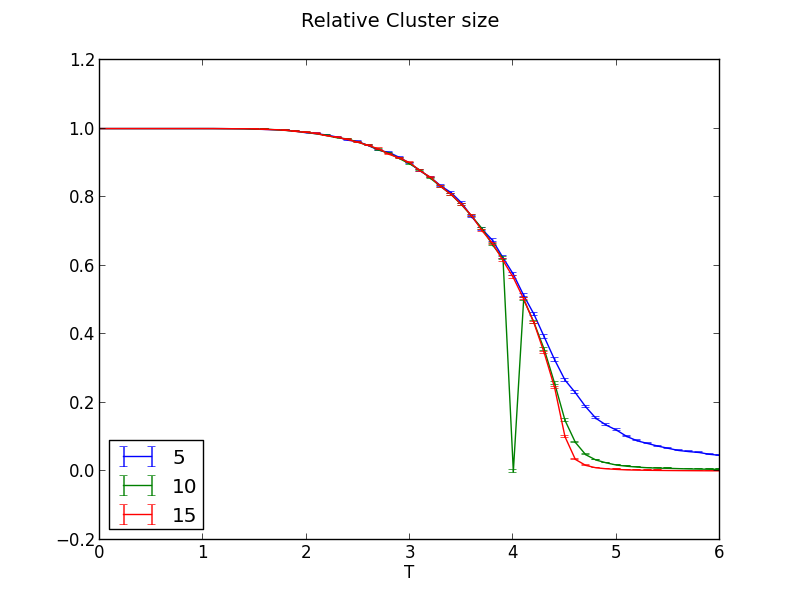
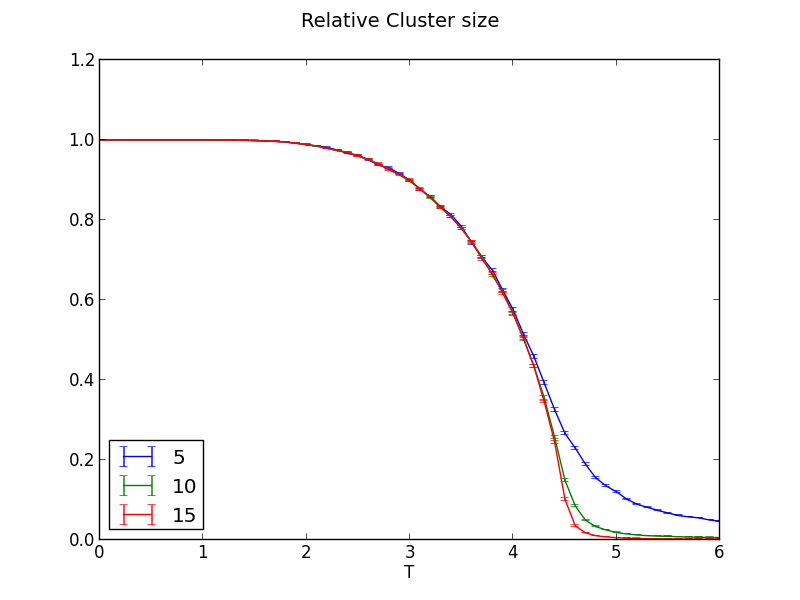
bugfix: relative cluster size

diff --git a/results/measurements/plot.py b/results/measurements/plot.py
@@ -139,7 +139,7 @@ def plotClusterSizeRelative():
     pltdataSingle.sort(key=lambda x: (x[0], x[1]))
 
     for systemSize in sorted(list(set([a for (a,x,y,z) in pltdataSingle]))):
-        pl.errorbar([x for (a,x,y,z) in pltdataSingle if a==systemSize],[y/(a**3) for (a,x,y,z) in pltdataSingle if a==systemSize],[z/(a**3) for (a,x,y,z) in pltdataSingle if a==systemSize], label=systemSize)
+        pl.errorbar([x for (a,x,y,z) in pltdataSingle if a==systemSize],[float(y)/(a**3) for (a,x,y,z) in pltdataSingle if a==systemSize],[float(z)/(a**3) for (a,x,y,z) in pltdataSingle if a==systemSize], label=systemSize)
 
     fig = pl.gcf()
     fig.suptitle(title,fontsize=14)
